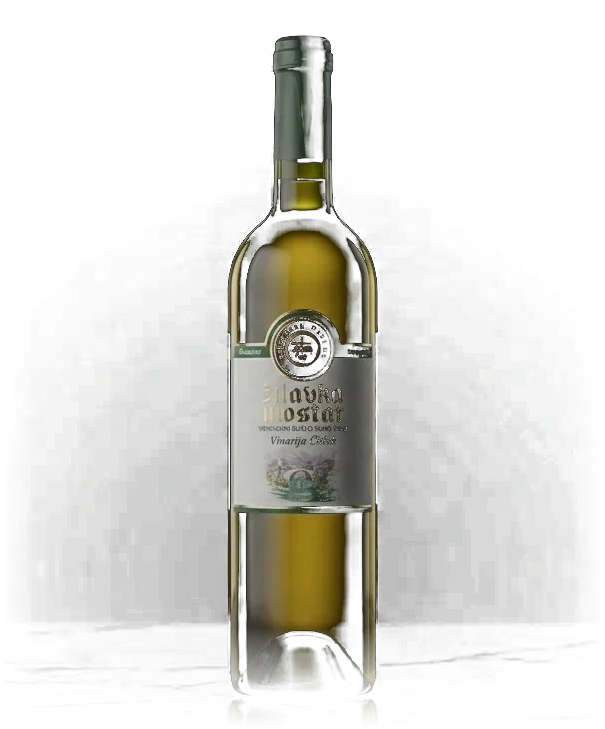
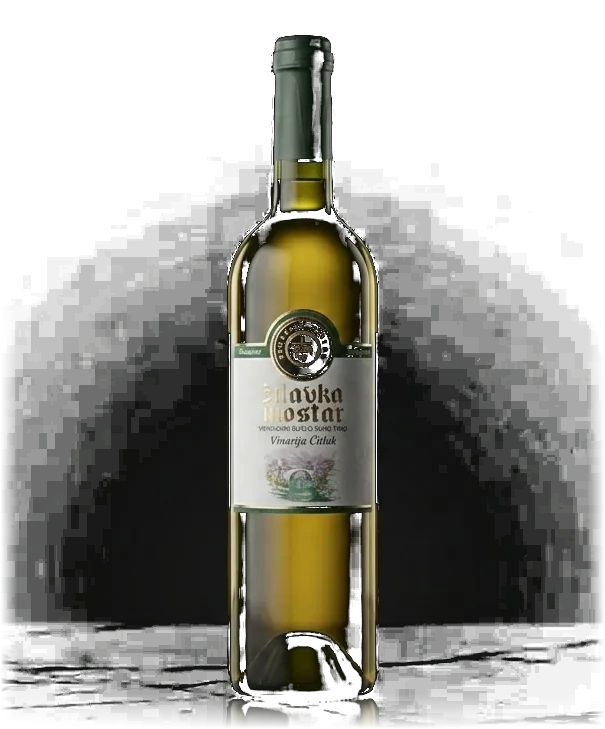
Give the stage the photograph's own black, and drop the watermark
The bottles were standing on the site's wine tone, so the black they were
photographed against came out burgundy — the photograph stopped being the
photograph. The stage is now the same near-black the catalogue card uses
(#080204), measured back at RGB(8,2,4) beside the bottle. It stays black
where the bottle stands and lifts to the wine tone only at the top and
bottom edges, which is what joins it to the navbar above and the cream
section below without a seam. The blurred photo backdrop is gone
entirely — that was the ambient cast itself — and the pool of light
behind the bottle is now neutral and very faint, because any colour there
ends up on the glass.

Matching the black also changed what the matte has to be, which is worth
recording. Compositing over black gives result = source x alpha, so every
partly transparent pixel came out darker than the photograph: the soft
ramp was quietly dimming the glass and the label. The matte is now opaque
wherever there is any light at all, keying out only the true black
backdrop the page supplies itself. Checked by compositing each cut-out
over #080204 and diffing against the untouched photograph: 2-3 levels
average, and the 1% of pixels above that are the crop feather.

The watermark is gone. On a known vintage it was type printed across a
photograph that carries the page on its own, and on the wines with no
vintage it had already been dropped for repeating a word in the title.
[…]

diff --git a/vino.css b/vino.css
@@ -113,10 +113,20 @@
 }
 
 /* ---------------------------------------------------------------- hero */
+/* The stage is the same near-black the catalogue card uses (#080204), not the
+   site's wine tone. The bottles are photographed on black, and a burgundy
+   ground turned that black burgundy — the photograph stopped being the
+   photograph. Black in the middle where the bottle stands, lifting to the
+   wine tone only at the top and bottom edges, which is what joins it to the
+   navbar above and the cream section below without a seam. */
 .wp-hero {
   position: relative;
   overflow: hidden;
-  background: var(--wine-deep);
+  background:
+    radial-gradient(78% 62% at 50% 48%,
+      #080204 0%, #080204 46%, rgba(8, 2, 4, 0) 100%),
+    linear-gradient(180deg,
+      #1c0407 0%, #0a0205 16%, #080204 50%, #0a0205 84%, #1a0407 100%);
   min-height: 100svh;
   display: flex;
   flex-direction: column;
@@ -124,35 +134,26 @@
   padding: 132px 0 96px;
 }
 
-/* The bottle photo again, blown far out of focus, giving the stage a trace
-   of the wine's own colour. Held well back: at half opacity it tinted the
-   bottle in front of it, which is exactly what it must not do. */
-.wp-hero-bg {
-  position: absolute;
-  inset: -18%;
-  background-size: cover;
-  background-position: center;
-  filter: blur(96px) saturate(1.15);
-  opacity: 0.26;
-  transform: scale(1.2);
-  pointer-events: none;
-}
+/* Retired. This was the blurred photograph tinting the stage with the wine's
+   colour, and it is precisely the ambient cast that stopped the black from
+   being the photograph's black. The stage now supplies its own ground. */
+.wp-hero-bg { display: none; }
 
 .wp-hero::after {
   content: '';
   position: absolute;
   inset: 0;
-  background:
-    radial-gradient(90% 70% at 28% 42%, rgba(31, 5, 8, 0.05), rgba(31, 5, 8, 0.88) 68%),
-    linear-gradient(180deg, rgba(31, 5, 8, 0.94), rgba(31, 5, 8, 0.72) 40%, rgba(31, 5, 8, 0.97));
+  /* Only a corner vignette now; the base gradient already carries the tone.
+     Anything stronger here reintroduces the cast the stage was cleaned of. */
+  background: radial-gradient(120% 100% at 50% 50%,
+    rgba(0, 0, 0, 0) 52%, rgba(0, 0, 0, 0.5) 100%);
   pointer-events: none;
   z-index: 1;
 }
 
-/* A pool of light behind where the bottle stands, kept faint on purpose.
-   At full strength it washed warm colour across the glass itself, so the
-   photograph stopped looking like a photograph — the stage should be lit,
-   not the bottle. */
+/* The faintest lift behind the bottle so the black has depth rather than
+   being a flat fill. Neutral rather than warm on purpose: any colour here
+   ends up on the glass, and the glass should be the colour it was shot. */
 .wp-hero-glow {
   position: absolute;
   left: 20%;
@@ -163,9 +164,9 @@
   max-height: 620px;
   transform: translate(-50%, -50%);
   background: radial-gradient(circle,
-    rgba(201, 169, 97, 0.085) 0%,
-    rgba(139, 32, 53, 0.05) 40%,
-    rgba(31, 5, 8, 0) 70%);
+    rgba(255, 246, 232, 0.028) 0%,
+    rgba(255, 246, 232, 0.012) 44%,
+    rgba(0, 0, 0, 0) 72%);
   z-index: 2;
   pointer-events: none;
 }
@@ -223,25 +224,10 @@
   filter: drop-shadow(0 34px 46px rgba(0, 0, 0, 0.5));
 }
 
-/* The variety or the vintage, set enormous and almost invisible behind the
-   glass. It gives the composition a background layer to sit against, and
-   rewards anyone who looks twice. */
-.wp-ghost {
-  position: absolute;
-  z-index: 1;
-  left: 50%;
-  top: 46%;
-  transform: translate(-50%, -50%);
-  font-family: 'HerczDj', 'Cinzel', serif;
-  font-weight: 900;
-  font-size: clamp(7rem, 15vw, 15rem);
-  line-height: 0.8;
-  letter-spacing: -0.02em;
-  white-space: nowrap;
-  color: rgba(245, 237, 224, 0.055);
-  pointer-events: none;
-  user-select: none;
-}
+/* No watermark behind the bottle. It was a vintage or a variety set large
+   and faint, and on the wine it suited least it repeated a word already in
+   the title; on the rest it was type printed across a photograph that is
+   doing the work on its own. */
 
 /* A hairline the bottle stands on, fading out at both ends. */
 .wp-stage-line {
@@ -539,10 +525,8 @@
               transform 1.2s cubic-bezier(0.22, 1, 0.36, 1);
 }
 
-.wp-stage .wp-ghost,
 .wp-stage .wp-stage-line,
 .wp-stage .wp-reflection { opacity: 0; transition: opacity 1.4s ease 0.35s; }
-.wp-stage.is-in .wp-ghost { opacity: 1; }
 .wp-stage.is-in .wp-stage-line,
 .wp-stage.is-in .wp-reflection { opacity: 1; }
 
@@ -970,7 +954,6 @@
   .wp-hero-grid { grid-template-columns: 1fr; gap: 30px; }
   .wp-stage { min-height: 44vh; }
   .wp-bottle { height: 46vh; max-height: 430px; }
-  .wp-ghost { top: 38%; }
   .wp-type-mark { display: none; }
   .wp-taste-grid { grid-template-columns: 1fr; gap: 40px; }
   .wp-story-grid { grid-template-columns: 1fr; }
@@ -988,15 +971,6 @@
   .wp-stage { min-height: 40vh; }
   .wp-bottle { height: 44vh; max-height: 380px; max-width: 92%; }
 
-  /* On a phone the watermark has the bottle's own width to live in, not a
-     half-page column, so it is lifted to sit across the shoulder instead of
-     being squeezed behind the label — and faded further, because at this
-     size it is competing with the bottle rather than sitting behind it. */
-  .wp-ghost {
-    top: 34%;
-    letter-spacing: 0.04em;
-    color: rgba(245, 237, 224, 0.075);
-  }
 
   .wp-title { font-size: clamp(2rem, 9vw, 2.7rem); }
   .wp-producer { font-size: 1.04rem; margin-bottom: 20px; }
@@ -1108,15 +1082,11 @@
   will-change: transform, opacity;
 }
 
-.wp-hero-parallax .wp-ghost {
-  transform: translate(-50%, -50%) translateY(calc(var(--wp-scroll, 0) * 46px));
-}
 
 @media (prefers-reduced-motion: reduce) {
   [data-rise], [data-stagger] > * { opacity: 1 !important; transform: none !important; }
   .wp-section .section-header .divider { transform: none !important; }
-  .wp-hero-parallax .wp-stage,
-  .wp-hero-parallax .wp-ghost { transform: none !important; opacity: 1 !important; }
+  .wp-hero-parallax .wp-stage { transform: none !important; opacity: 1 !important; }
   .wp-cue-line::after { animation: none; }
 }
 

diff --git a/vino.js b/vino.js
@@ -353,23 +353,6 @@ function render(wine, detail) {
   // while "Žilavka" ran out from under the bottle and across the text column.
   // Sized from the character count instead, so every wine fills the same
   // width whatever its watermark says.
-  // The watermark is the vintage where we know it. Where we do not, the
-  // variety stands in — but only when it is not already in the wine's name.
-  // "Tvrdoš Vranac" under a giant VRANAC was the page saying the same word
-  // twice in the same glance, which is worse than saying nothing, so in that
-  // case the watermark is simply left out.
-  const ghost = document.getElementById('wpGhost');
-  const nameHasVariety = wine.name.sr.toLowerCase()
-    .includes(variety.name.sr.toLowerCase());
-  const ghostText = detail.vintage || (nameHasVariety ? '' : variety.name.sr);
-  ghost.hidden = !ghostText;
-  ghost.textContent = ghostText;
-  // Narrow screens give the watermark the bottle's width rather than half a
-  // page, so it is sized against the viewport it is actually in.
-  const perChar = window.innerWidth < 980 ? 56 : 78;
-  ghost.style.fontSize =
-    'clamp(3rem, ' + (perChar / Math.max(4, ghostText.length)).toFixed(1) + 'vw, 15rem)';
-
   document.getElementById('wineArticle').hidden = false;
 }
 
@@ -382,7 +365,6 @@ function heroMotion() {
   const stage = document.getElementById('wpStage');
   const intro = document.querySelector('.wp-intro');
   const bottle = document.getElementById('wpImg');
-  const ghost = document.getElementById('wpGhost');
   const hero = document.querySelector('.wp-hero');
   if (!stage || !intro) return;
 
@@ -401,8 +383,6 @@ function heroMotion() {
     px += (tx - px) * 0.08;
     py += (ty - py) * 0.08;
     bottle.style.transform = 'translate3d(' + px.toFixed(2) + 'px,' + py.toFixed(2) + 'px,0)';
-    if (ghost) ghost.style.transform =
-      'translate(-50%,-50%) translate3d(' + (-px * 0.45).toFixed(2) + 'px,' + (-py * 0.45).toFixed(2) + 'px,0)';
     raf = Math.abs(tx - px) > 0.1 || Math.abs(ty - py) > 0.1 ? requestAnimationFrame(drift) : null;
   };
   const kick = () => { if (!raf) raf = requestAnimationFrame(drift); };

diff --git a/vino.html b/vino.html
@@ -30,7 +30,7 @@
       href="https://fonts.googleapis.com/css2?family=Cinzel:wght@400;600;700;900&family=Cormorant+Garamond:ital,wght@0,300;0,400;0,500;0,600;0,700;1,400;1,500;1,600&family=Lato:wght@300;400;700&display=swap">
   </noscript>
   <link rel="stylesheet" href="styles.css?v=116">
-  <link rel="stylesheet" href="vino.css?v=8">
+  <link rel="stylesheet" href="vino.css?v=9">
 
   <!-- Microsoft Clarity: session recordings and click heatmaps, project "Hercz Wines". -->
   <script type="text/javascript">
@@ -123,7 +123,6 @@
                  on it, and the bottle reads as standing in the page rather
                  than inside a card. -->
             <div class="wp-stage" id="wpStage">
-              <span class="wp-ghost" id="wpGhost" aria-hidden="true"></span>
               <span class="wp-stage-line" aria-hidden="true"></span>
               <img id="wpImg" class="wp-bottle" src="" alt="">
               <span class="wp-reflection" id="wpReflection" aria-hidden="true"></span>
@@ -359,6 +358,6 @@
 
   <script src="data.js?v=1"></script>
   <script src="wine-details.js?v=1"></script>
-  <script src="vino.js?v=8"></script>
+  <script src="vino.js?v=9"></script>
 </body>
 </html>

diff --git a/tools-cutout.py b/tools-cutout.py
@@ -1,24 +1,22 @@
 #!/usr/bin/env python3
 """Cut the bottle out of a studio photograph for the product page.
 
-Two decisions worth knowing, both reached by measuring rather than guessing:
+The page behind the bottle is the same near-black the catalogue card uses,
+which changes what the matte has to be. Compositing over black gives
+result = source x alpha, so any pixel below full opacity comes out darker
+than the photograph — a soft ramp was quietly dimming the glass and the
+label. Full opacity for anything with light in it reproduces the original
+exactly, and the only thing keyed out is the true black backdrop, which the
+page supplies itself.
 
-1. The matte is a ramp, not a threshold. The subject is lit against pure
-   black (sampled 0,0,0 in the corners), so brightness is coverage. Binary
-   keying cannot work on this set: the studio halo behind the bottle sits at
-   9-20 luminance and the bottle's own dark neck at 18-49, so every threshold
-   that removes the halo also eats the neck. The ramp keeps both — halo as a
-   faint glow, dark glass as glass.
-
-2. The crop is fixed, not detected. Every automatic bound tried here was
-   fooled by something: brightness finds the lit marble floor, which on the
-   red-wine bottles is brighter than the bottle; column mass finds the label
-   specular; column height finds the halo, which is as tall as the bottle.
-   Measured across all five photographs the studio setup is consistent to
-   within a couple of percent (centre 49.0-50.5%, subject width 24.6-32.5%,
-   top 4-7%), so a fixed window with generous margin is both simpler and more
-   predictable. A future photograph shot differently will look wrong
-   immediately rather than subtly.
+The crop is fixed rather than detected. Every automatic bound tried here was
+fooled by something: brightness finds the lit marble floor, which on the
+red-wine bottles is brighter than the bottle; column mass finds the label
+specular; column height finds the studio halo, which is as tall as the
+bottle. Measured across all five photographs the setup is consistent to
+within a couple of percent (centre 49.0-50.5%, subject width 24.6-32.5%,
+top 4-7%), so a fixed window with margin is simpler and more predictable —
+and a differently shot photograph will look wrong immediately, not subtly.
 """
 import sys, numpy as np
 from PIL import Image
@@ -26,7 +24,7 @@ from PIL import Image
 CENTRE, HALF_W = 0.50, 0.22
 TOP, BOTTOM = 0.02, 0.97
 
-def cutout(src, dst, gain=1.5, gamma=1.4, solid_at=58, dim=0.88):
+def cutout(src, dst, opaque_at=11.0):
     im = Image.open(src).convert('RGB')
     a = np.asarray(im).astype(np.float32)
     lum = 0.299*a[:,:,0] + 0.587*a[:,:,1] + 0.114*a[:,:,2]
@@ -42,27 +40,27 @@ def cutout(src, dst, gain=1.5, gamma=1.4, solid_at=58, dim=0.88):
         lum[-40:, :40].ravel(), lum[-40:, -40:].ravel()]), 80)
     lum = np.clip(lum - corner - 1.0, 0, None)
 
-    al = np.clip(np.clip(lum/solid_at, 0, 1) ** gamma * gain, 0, 1)
+    # Opaque wherever there is any light at all. The threshold sits just
+    # above the sensor floor, so the studio halo — which is real light in the
+    # photograph, not an artefact — is kept at full strength exactly as shot.
+    al = np.clip(lum / opaque_at, 0, 1)
 
     L, R = int(w*(CENTRE-HALF_W)), int(w*(CENTRE+HALF_W))
     T, B = int(h*TOP), int(h*BOTTOM)
 
-    # Let the reflection dissolve instead of ending on a horizontal cut, and
-    # feather the two side edges so the crop window itself never shows.
-    fade = int((B-T)*0.14)
-    al[B-fade:B] *= (np.linspace(1, 0, fade) ** 1.3)[:, None]
-    edge = int((R-L)*0.06)
+    # A narrow feather at the crop window itself, so the cut never shows if
+    # the frame edge happens to fall on lit floor. Kept tight: anything wider
+    # starts fading the photograph rather than just its border.
+    fade = int((B-T)*0.05)
+    al[B-fade:B] *= np.linspace(1, 0, fade)[:, None]
+    edge = int((R-L)*0.03)
     ramp = np.linspace(0, 1, edge)
     al[:, L:L+edge] *= ramp[None, :]
     al[:, R-edge:R] *= ramp[::-1][None, :]
 
-    # The ramp lifts the whole bottle, halo included, so the cut-outs came
-    # back brighter than the photographs they were made from and read as lit
-    # from the front rather than standing in a dark room. `dim` puts the
-    # exposure back where the original had it.
-    a = a * dim
-
-    out = Image.fromarray(np.clip(a, 0, 255).astype(np.uint8), 'RGB').convert('RGBA')
+    # Colour is passed through untouched — the page matches the photograph's
+    # black, so there is nothing to compensate for.
+    out = Image.fromarray(a.astype(np.uint8), 'RGB').convert('RGBA')
     out.putalpha(Image.fromarray((al*255).astype(np.uint8), 'L'))
     out = out.crop((L, T, R, B))
     out.save(dst, 'WEBP', quality=92, method=6, exact=True)
